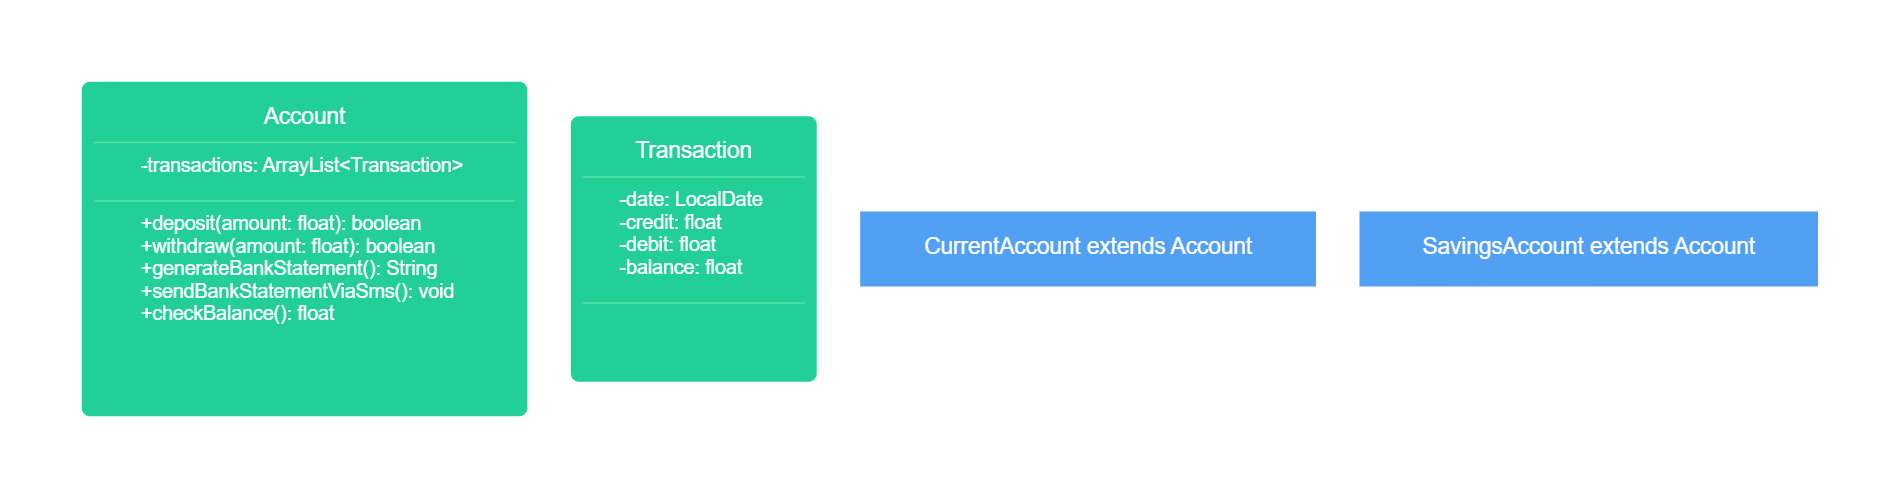
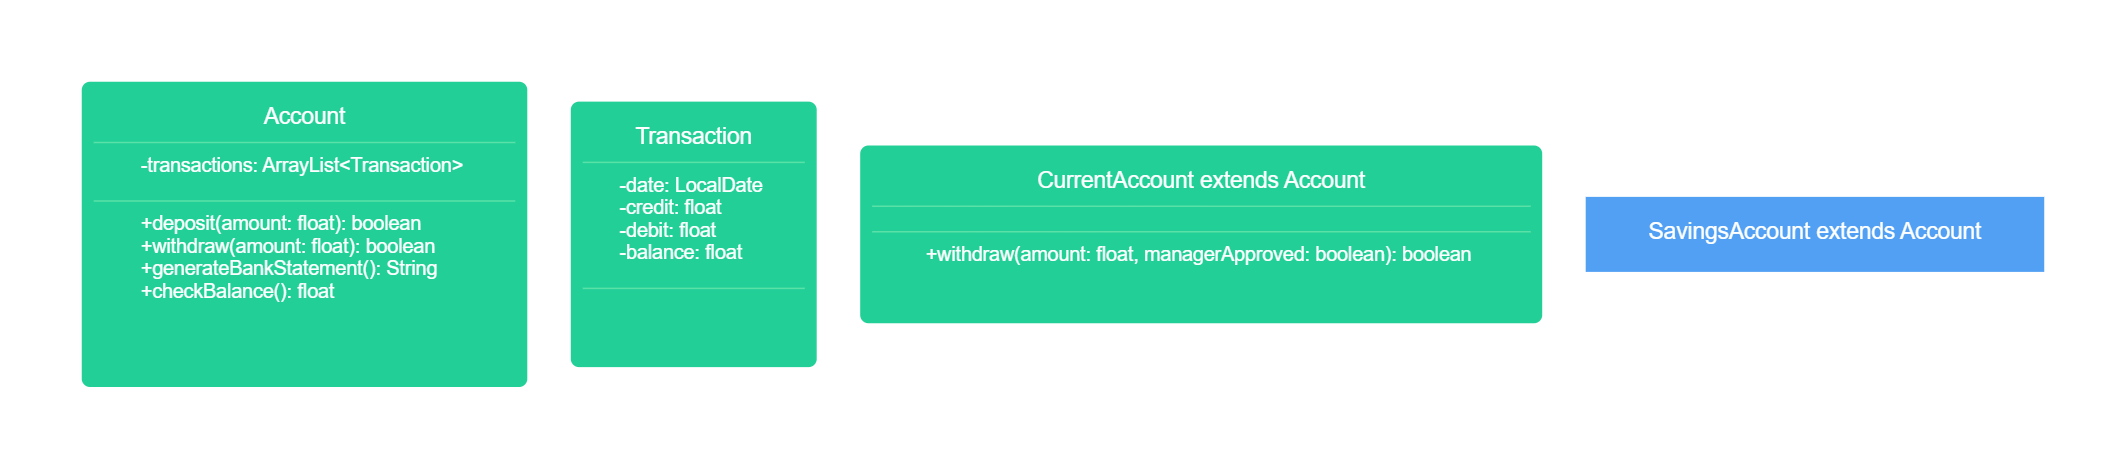
class diagram and domain model updated

Changed region(s): [[0.0311, 0.1496, 0.9631, 0.8376]]

diff --git a/domain-model.md b/domain-model.md
@@ -33,7 +33,7 @@
 |           |                                        | `withdraw(float amount)`     | withdraws given amount of money if amount > 0 and balance >= amount       | true    |
 |           |                                        |                              | does not withdraw given amount of money if amount < 0 or balance < amount | false   |
 |           |                                        | `generateBankStatement()`    | generates bank statement                                                  | String  |
-|           |                                        | `checkBalance()`             | returns balance                                                           | float   |
+|           |                                        | `checkBalance()`             | returns balance based on list of transactions                             | float   |
 |           |                                        | `sendBankStatementViaSms()`  | sends bank statement via sms                                              | void    |
 
 | Class         | Members   |
@@ -43,9 +43,9 @@
 |               | `debit`   |
 |               | `balance` |
 
-| Class                            |
-|----------------------------------|
-| `CurrentAccount extends Account` |
+| Class                            | Methods                                            |
+|----------------------------------|----------------------------------------------------|
+| `CurrentAccount extends Account` | `withdraw(float amount, boolean managerApproved)`  |
 
 | Class                            |
 |----------------------------------|
